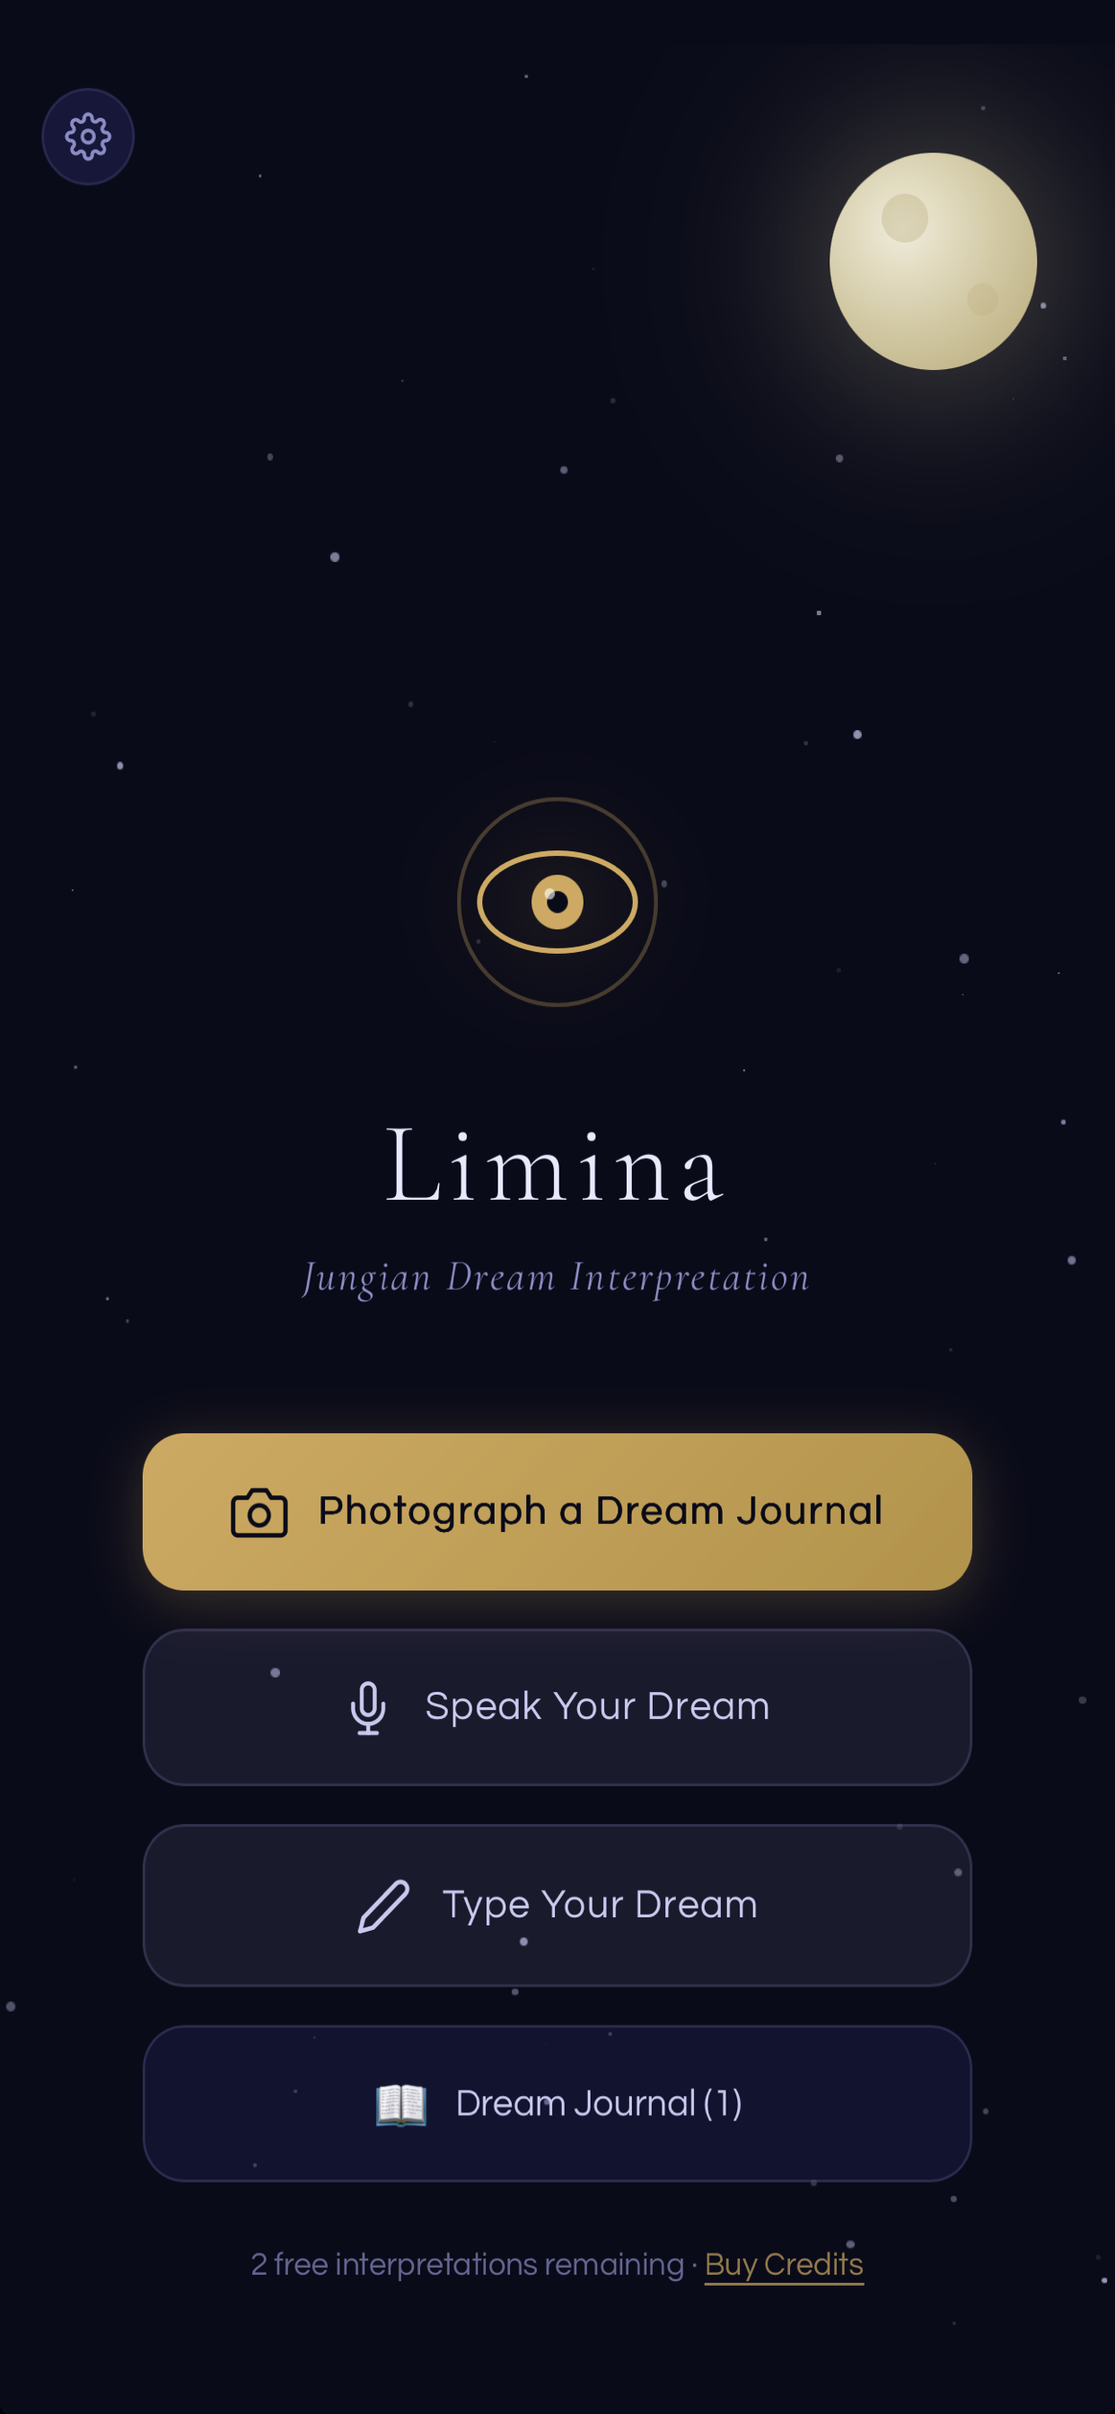
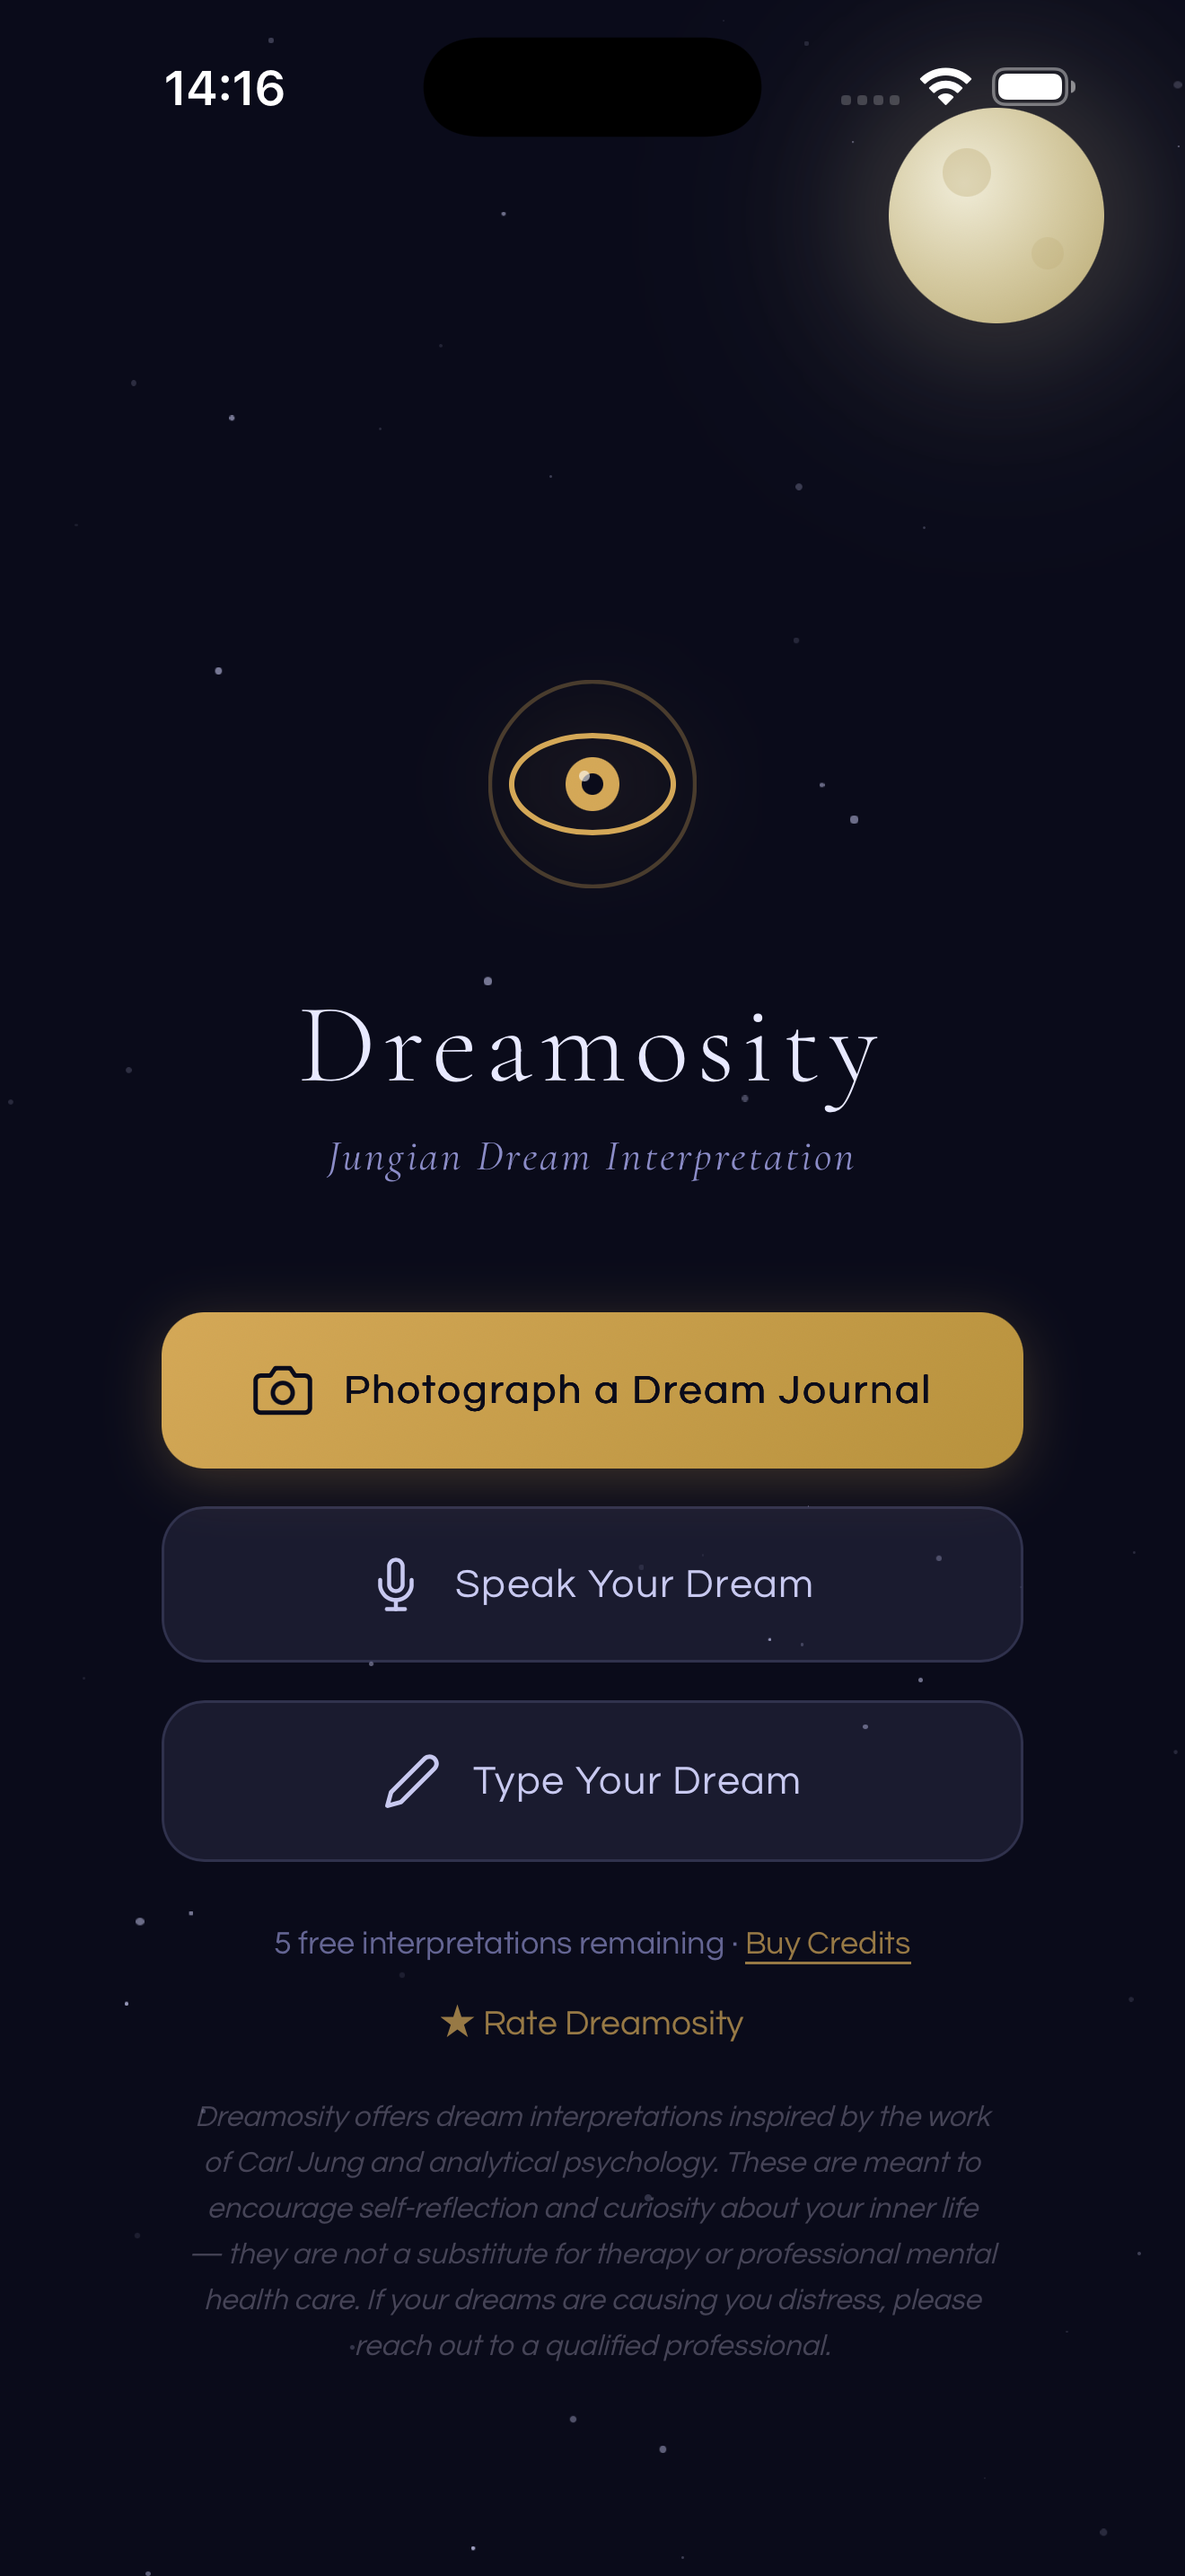
Update landing: new Dreamosity screenshot (5 free), hero copy '5 free interpretations · free dream journal'

diff --git a/index.html b/index.html
@@ -625,7 +625,7 @@
       </div>
     </a>
 
-    <p class="hero-free-note">Free to download &nbsp;·&nbsp; 2 free interpretations included</p>
+    <p class="hero-free-note">Free to download &nbsp;·&nbsp; 5 free interpretations &nbsp;·&nbsp; free dream journal</p>
   </div>
 
   <div class="hero-phone">
